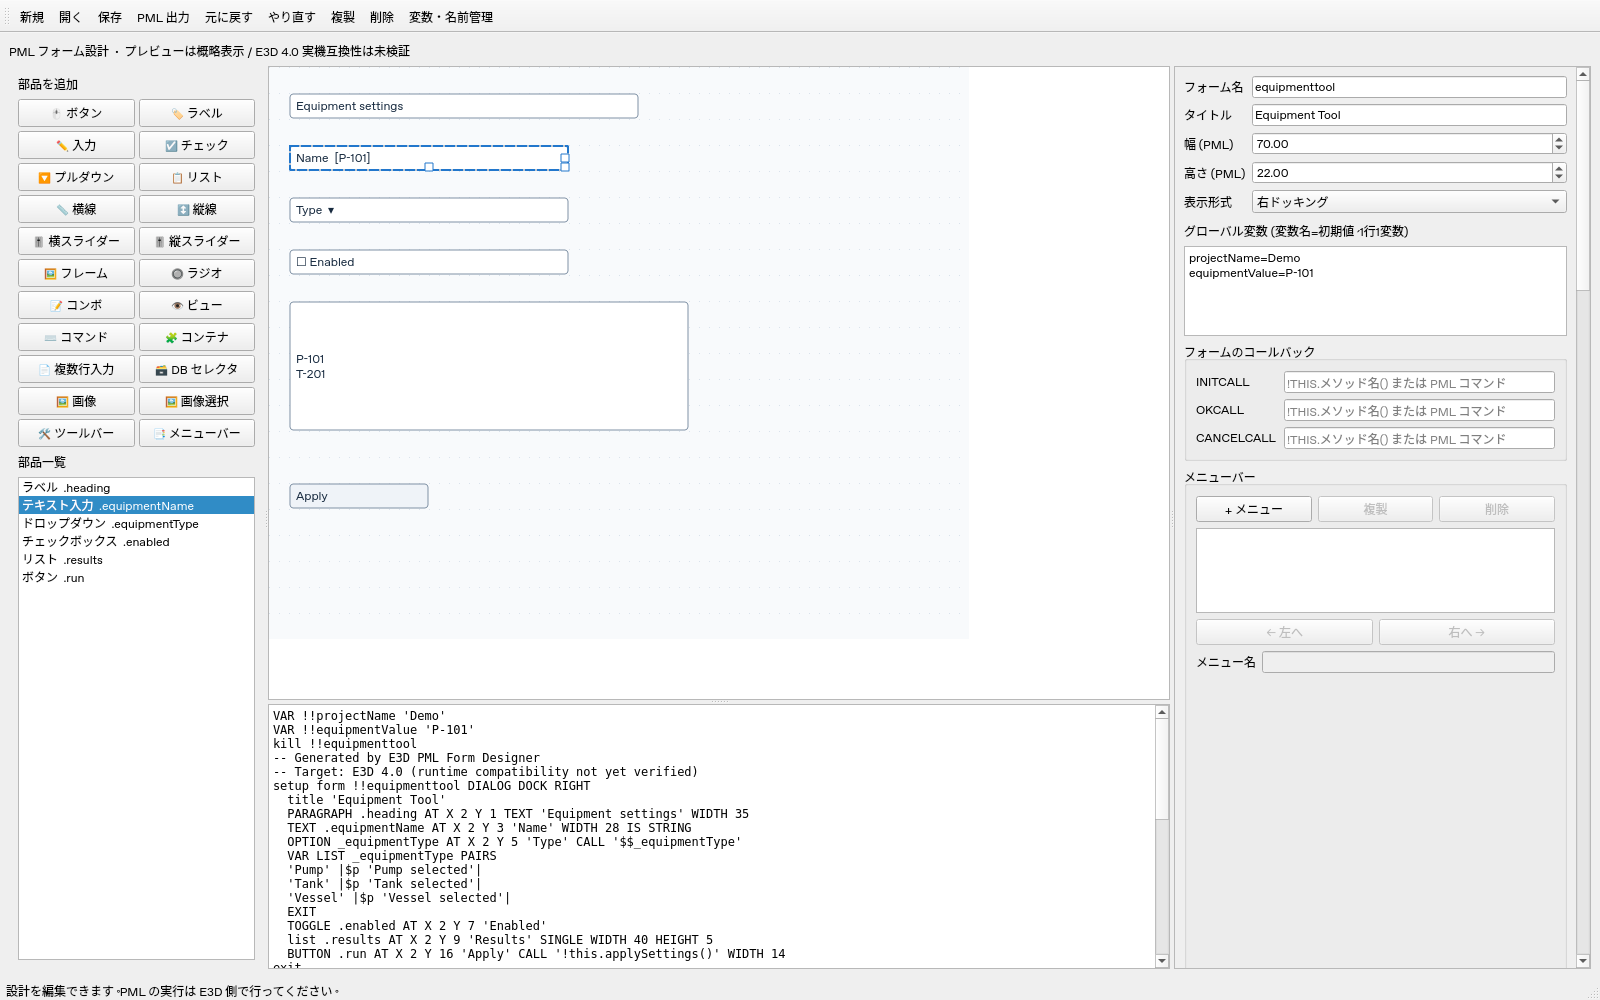
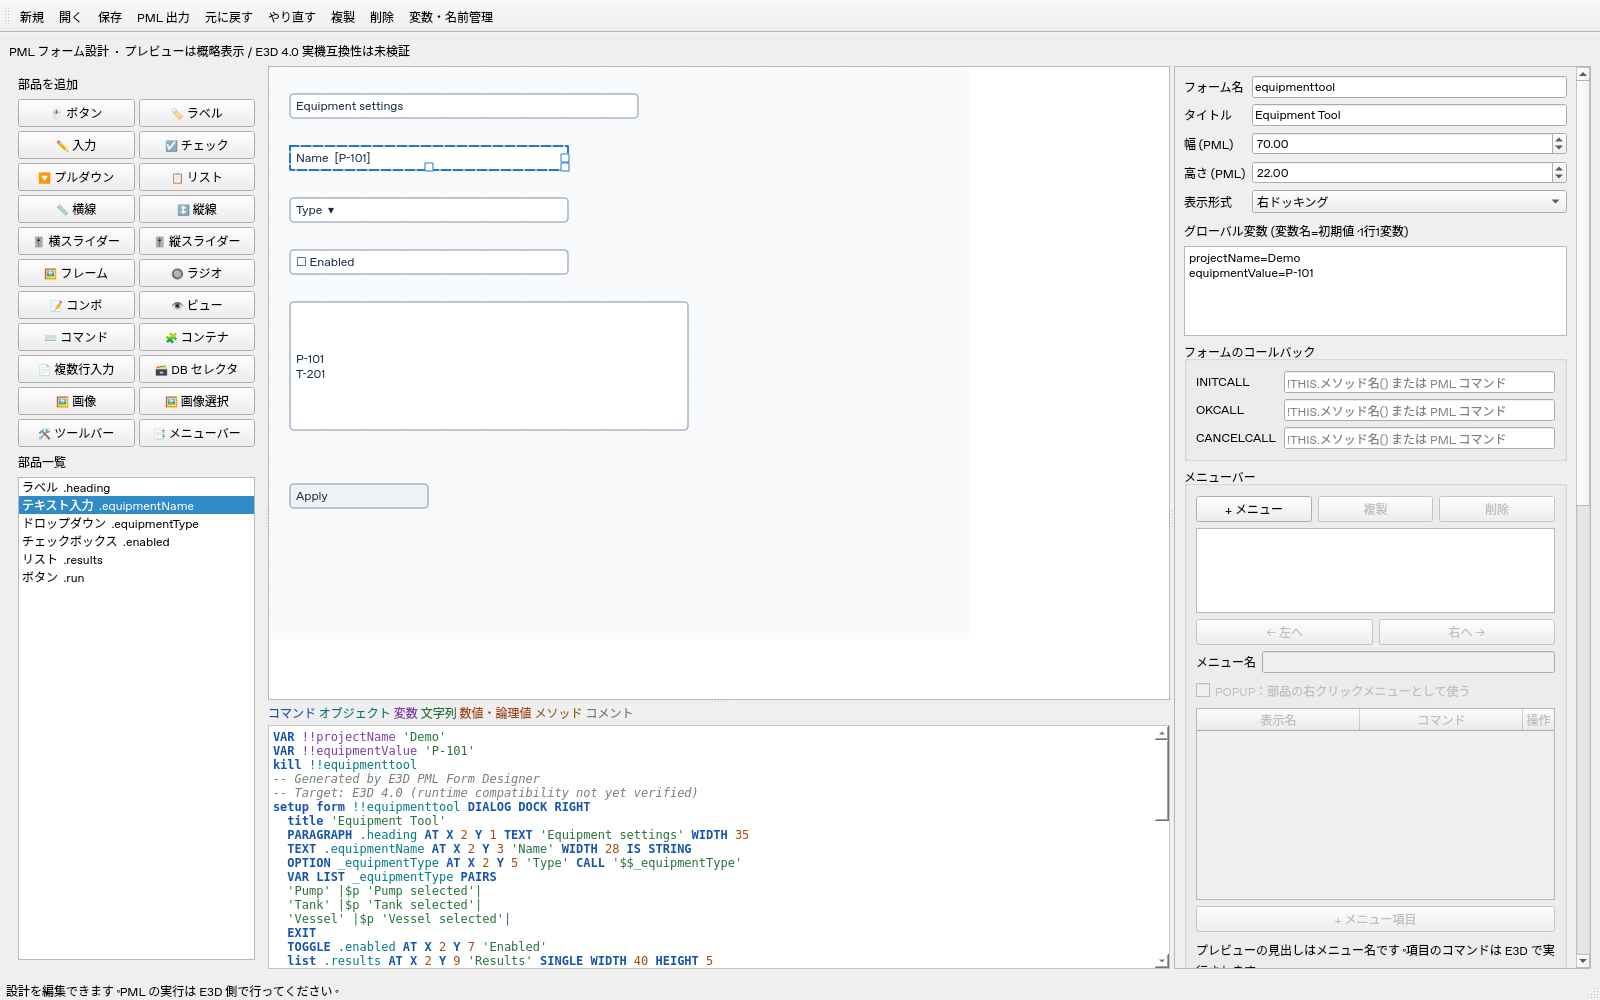
Add category-based PML syntax highlighting to code views and editors

diff --git a/tests/test_highlighting.py b/tests/test_highlighting.py
@@ -1,0 +1,75 @@
+import os
+os.environ.setdefault('QT_QPA_PLATFORM','offscreen')
+import unittest
+from PySide6.QtWidgets import QApplication,QPlainTextEdit
+from PySide6.QtGui import QTextDocument
+from PySide6.QtTest import QTest
+from e3d_designer.model import Form,Gadget
+from e3d_designer.highlighting import PmlHighlighter,COLORS
+from e3d_designer.app import Window
+
+
+class HighlightTests(unittest.TestCase):
+    @classmethod
+    def setUpClass(cls):cls.app=QApplication.instance() or QApplication([])
+
+    def make_document(self,text):
+        document=QTextDocument(text);highlighter=PmlHighlighter(document)
+        highlighter.set_symbols(Form(gadgets=[Gadget(name='a'),Gadget(kind='option',name='mode')]))
+        highlighter.rehighlight();return document,highlighter
+
+    def color_at(self,document,token,block_number=0):
+        block=document.findBlockByNumber(block_number);text=block.text();index=text.index(token)
+        position=len(text[:index].encode('utf-16-le'))//2
+        for value in block.layout().formats():
+            if value.start<=position<value.start+value.length:return value.format.foreground().color().name()
+        return None
+
+    def test_categories_and_case_insensitive_keywords(self):
+        text="button .a CALL '!this.run()' WIDTH 12.5 !!userform !this !!flag .val .run() TRUE _mode"
+        document,highlighter=self.make_document(text)
+        for token,kind in [('button','command'),('.a','object'),('CALL','command'),("'!this.run()'",'string'),('12.5','number'),('!!userform','object'),('!this !!','variable'),('!!flag','variable'),('.val','property'),('.run() TRUE','method'),('TRUE','number'),('_mode','object')]:
+            with self.subTest(token=token):self.assertEqual(self.color_at(document,token),COLORS[kind])
+        self.assertEqual(document.toPlainText(),text)
+
+    def test_string_comment_precedence_and_unicode_offsets(self):
+        document,highlighter=self.make_document("$P '🛠 -- IF !!flag' -- BUTTON !!other\n$* comment !!other\nREAL -2.5e-3 .5E2")
+        self.assertEqual(self.color_at(document,'IF'),COLORS['string'])
+        self.assertEqual(self.color_at(document,'!!flag'),COLORS['string'])
+        self.assertEqual(self.color_at(document,'BUTTON'),COLORS['comment'])
+        self.assertEqual(self.color_at(document,'!!other',1),COLORS['comment'])
+        for token in ('-2.5e-3','.5E2'):self.assertEqual(self.color_at(document,token,2),COLORS['number'])
+
+    def test_multiline_quote_state_rehighlight_after_edit(self):
+        document,highlighter=self.make_document("|first\n!!flag| SHOW\n!!flag")
+        self.assertEqual(self.color_at(document,'!!flag',1),COLORS['string'])
+        self.assertEqual(self.color_at(document,'SHOW',1),COLORS['command'])
+        self.assertEqual(self.color_at(document,'!!flag',2),COLORS['variable'])
+        document.setPlainText('-- comment\n!!flag');highlighter.rehighlight()
+        self.assertEqual(self.color_at(document,'!!flag',1),COLORS['variable'])
+
+    def test_symbol_rename_updates_bare_option_and_form_colors(self):
+        document,highlighter=self.make_document('!!userform !!newform _mode _choice')
+        highlighter.set_symbols(Form(name='newform',gadgets=[Gadget(kind='option',name='choice')]))
+        self.assertEqual(self.color_at(document,'!!newform'),COLORS['object'])
+        self.assertEqual(self.color_at(document,'!!userform'),COLORS['variable'])
+        self.assertEqual(self.color_at(document,'_choice'),COLORS['object'])
+        self.assertIsNone(self.color_at(document,'_mode'))
+
+    def test_highlighting_does_not_modify_text_or_undo_history(self):
+        editor=QPlainTextEdit();highlighter=PmlHighlighter(editor.document())
+        editor.setPlainText('!!flag = 1');editor.document().setModified(False)
+        highlighter.rehighlight();self.assertFalse(editor.document().isModified())
+        editor.moveCursor(editor.textCursor().MoveOperation.End);QTest.keyClicks(editor,'2')
+        highlighter.rehighlight();editor.undo()
+        self.assertEqual(editor.toPlainText(),'!!flag = 1');editor.close()
+
+    def test_all_pml_editors_attached_and_refresh_does_not_dirty_project(self):
+        window=Window()
+        try:
+            self.assertEqual(len(window.pml_highlighters),6)
+            for editor in (window.code,window.after_show,window.default_body,window.body,window.view_code,window.choice_commands):
+                self.assertIsInstance(editor.pml_highlighter,PmlHighlighter)
+            window.refresh();self.assertFalse(window.dirty);self.assertEqual(window.history,[])
+        finally:
+            self.app.clipboard().clear();window.dirty=False;window.close();self.app.processEvents()

diff --git a/e3d_designer/highlighting.py b/e3d_designer/highlighting.py
@@ -1,0 +1,81 @@
+"""Lexical PML highlighting; display formatting never changes source text."""
+import re
+from PySide6.QtGui import QSyntaxHighlighter,QTextCharFormat,QColor,QFont
+
+COLORS={'command':'#1755ad','object':'#007b83','variable':'#7c3eaa',
+        'string':'#26713b','number':'#a34a12','method':'#946500',
+        'property':'#516779','comment':'#738078'}
+KEYWORDS=set('''VAR LIST PAIRS EXIT KILL SETUP FORM LAYOUT DIALOG MAIN DOCUMENT BLOCKING
+DOCK DOCKING LEFT RIGHT TOP BOTTOM FILL NONE ALL RESIZABLE SIZE TITLE
+BUTTON PARAGRAPH PARA TEXT TOGGLE RTOGGLE FRAME TABSET TOOLBAR OPTION
+COMBO COMBOBOX SLIDER SELECTOR DATABASE CONTAINER PMLNETCONTROL TEXTPANE
+VIEW ALPHA AREA PLOT VOLUME LINE HORIZ VERT HORIZONTAL VERTICAL
+AT X Y WIDTH HEIGHT BACKGROUND PIXMAP CALL CALLBACK INITCALL AUTOCALL
+OKCALL CANCELCALL OK APPLY CANCEL RESET HELP NORMAL
+DEFINE METHOD ENDMETHOD SHOW HIDE IS STRING REAL BOOLEAN ARRAY OBJECT
+IF THEN ELSE ELSEIF ENDIF DO ENDDO FOR FROM TO BY BREAK RETURN HANDLE ENDHANDLE
+AND OR NOT EQ NE GT GE LT LE
+SINGLE MULTIPLE MULTI OWNERS MEMBERS AUTO ASPECT FIXCHARS
+PATH HDIST HDISTANCE VDIST VDISTANCE HALIGN VALIGN CENTRE CENTER
+XMIN XCEN XMAX YMIN YCEN YMAX ANCHOR NOPADDING NOALIGN AUTOALIGN
+RANGE STEP NDP STATES TAG TAGWIDTH TAGWID CHANNELS REQUESTS
+IMPORT USING NAMESPACE MEMBER NOBOX INDENT APPEND DELETE NEW COLLECTION
+Q QUERY SAVEWORK CE END'''.split())
+PROPERTIES=set('VAL DTEXT RTEXT VISIBLE ACTIVE WIDTH HEIGHT CALLBACK INITCALL OKCALL CANCELCALL CONTROL'.split())
+TOKEN=re.compile(r"--.*|\$\*.*|['\"|]|!![A-Za-z][A-Za-z0-9_]*|![A-Za-z_][A-Za-z0-9_]*|\.[A-Za-z_][A-Za-z0-9_]*|(?<![\w.])[-+]?(?:\d+(?:\.\d*)?|\.\d+)(?:[eE][-+]?\d+)?(?!\w)|\$[A-Za-z][A-Za-z0-9_]*|[A-Za-z_][A-Za-z0-9_]*")
+QUOTES={"'":1,'"':2,'|':3}
+
+
+class PmlHighlighter(QSyntaxHighlighter):
+    def __init__(self,document):
+        super().__init__(document)
+        self.form_name='';self.objects=set()
+        self.formats={}
+        for kind,color in COLORS.items():
+            fmt=QTextCharFormat();fmt.setForeground(QColor(color))
+            if kind=='command':fmt.setFontWeight(QFont.Bold)
+            if kind=='comment':fmt.setFontItalic(True)
+            self.formats[kind]=fmt
+
+    def set_symbols(self,form):
+        from .names import actual_name
+        objects={actual_name(g).lower() for g in form.gadgets}|{g.name.lower() for g in form.gadgets}|{m.name.lower() for m in form.menus}
+        if self.form_name==form.name.lower() and self.objects==objects:return
+        self.form_name=form.name.lower();self.objects=objects;self.rehighlight()
+
+    def highlightBlock(self,text):
+        # QTextDocument uses UTF-16 offsets; Python indexes Unicode code points.
+        offsets=[0]
+        for char in text:offsets.append(offsets[-1]+(2 if ord(char)>0xffff else 1))
+        def paint(start,end,kind):self.setFormat(offsets[start],offsets[end]-offsets[start],self.formats[kind])
+        self.setCurrentBlockState(0)
+        start=0;state=self.previousBlockState()
+        if state in QUOTES.values():
+            quote=next(char for char,value in QUOTES.items() if value==state)
+            end=text.find(quote)
+            if end<0:
+                paint(0,len(text),'string');self.setCurrentBlockState(state);return
+            paint(0,end+1,'string');start=end+1
+        while start<len(text):
+            match=TOKEN.search(text,start)
+            if not match:break
+            token=match.group();end=match.end();kind=None
+            if token.startswith(('--','$*')):
+                paint(match.start(),len(text),'comment');break
+            if token in QUOTES:
+                close=text.find(token,end)
+                end=len(text) if close<0 else close+1
+                paint(match.start(),end,'string')
+                if close<0:self.setCurrentBlockState(QUOTES[token])
+            else:
+                if token.startswith('!!'):kind='object' if token[2:].lower()==self.form_name else 'variable'
+                elif token.startswith('!'):kind='variable'
+                elif token.startswith('.') and (token[1].isalpha() or token[1]=='_'):
+                    kind='method' if text[end:].lstrip().startswith('(') else 'property' if token[1:].upper() in PROPERTIES else 'object'
+                elif token.startswith('$'):kind='command'
+                elif token.upper() in ('TRUE','FALSE','UNSET'):kind='number'
+                elif token.upper() in KEYWORDS:kind='command'
+                elif token.lower() in self.objects:kind='object'
+                elif token[0].isdigit() or token[0] in '+-.':kind='number'
+                if kind:paint(match.start(),end,kind)
+            start=end

diff --git a/e3d_designer/app.py b/e3d_designer/app.py
@@ -13,6 +13,7 @@ from PySide6.QtWidgets import (QApplication, QMainWindow, QWidget, QVBoxLayout,
     QGraphicsObject, QGraphicsItem, QListWidget, QFileDialog, QMessageBox,
     QScrollArea, QCheckBox, QMenuBar, QMenu, QGroupBox, QTableWidget, QHeaderView, QAbstractItemView,
     QGridLayout)
+from .highlighting import PmlHighlighter,COLORS
 from .model import IDENTIFIER, Form, Gadget, Menu, MenuItem, KINDS, CHAR_WIDTH, LINE_HEIGHT, display_size, native_size
 
 LABELS = {'textpane':'複数行テキスト (TEXTPANE)','selector':'DB セレクタ (SELECTOR)','button': 'ボタン', 'paragraph': 'ラベル', 'text': 'テキスト入力',
@@ -398,7 +399,10 @@ class Window(QMainWindow):
         middle.addWidget(preview)
         self.code = QPlainTextEdit(); self.code.setReadOnly(True)
         self.code.setStyleSheet('font-family: monospace; font-size: 12px;')
-        middle.addWidget(self.code); middle.setSizes([550, 230]); columns.addWidget(middle)
+        code_panel=QWidget();code_layout=QVBoxLayout(code_panel);code_layout.setContentsMargins(0,0,0,0);code_layout.setSpacing(3)
+        legend=QLabel('  '.join(f'<span style="color:{COLORS[kind]}">{label}</span>' for kind,label in (('command','コマンド'),('object','オブジェクト'),('variable','変数'),('string','文字列'),('number','数値・論理値'),('method','メソッド'),('comment','コメント'))))
+        legend.setWordWrap(True);code_layout.addWidget(legend);code_layout.addWidget(self.code)
+        middle.addWidget(code_panel); middle.setSizes([550, 230]); columns.addWidget(middle)
         right = QWidget(); rl = QVBoxLayout(right)
         self.form_fields = QFormLayout()
         self.fname = QLineEdit(); self.ftitle = QLineEdit()
@@ -548,6 +552,11 @@ class Window(QMainWindow):
         self.property_scroll = scroll
         columns.addWidget(scroll); columns.setSizes([220, 780, 360])
         outer.addWidget(columns, 1); self.setCentralWidget(root)
+        self.pml_highlighters=[]
+        for editor in (self.code,self.after_show,self.default_body,self.body,self.view_code,self.choice_commands):
+            editor.setStyleSheet('font-family: monospace; font-size: 12px; background-color: #ffffff; color: #222222;')
+            highlighter=PmlHighlighter(editor.document());editor.pml_highlighter=highlighter
+            self.pml_highlighters.append(highlighter)
         self.refresh()
 
     @staticmethod
@@ -1047,6 +1056,7 @@ class Window(QMainWindow):
     def refresh(self, rebuild=True):
         if self._closing or not isValid(self) or not isValid(self.scene): return
         self.loading = True
+        for highlighter in self.pml_highlighters:highlighter.set_symbols(self.form)
         self.refresh_menus(rebuild)
         variable_text = '\n'.join(f'{k}={v}' for k,v in self.form.variables.items())
         if not self.variable_error and self.variables.toPlainText() != variable_text:
